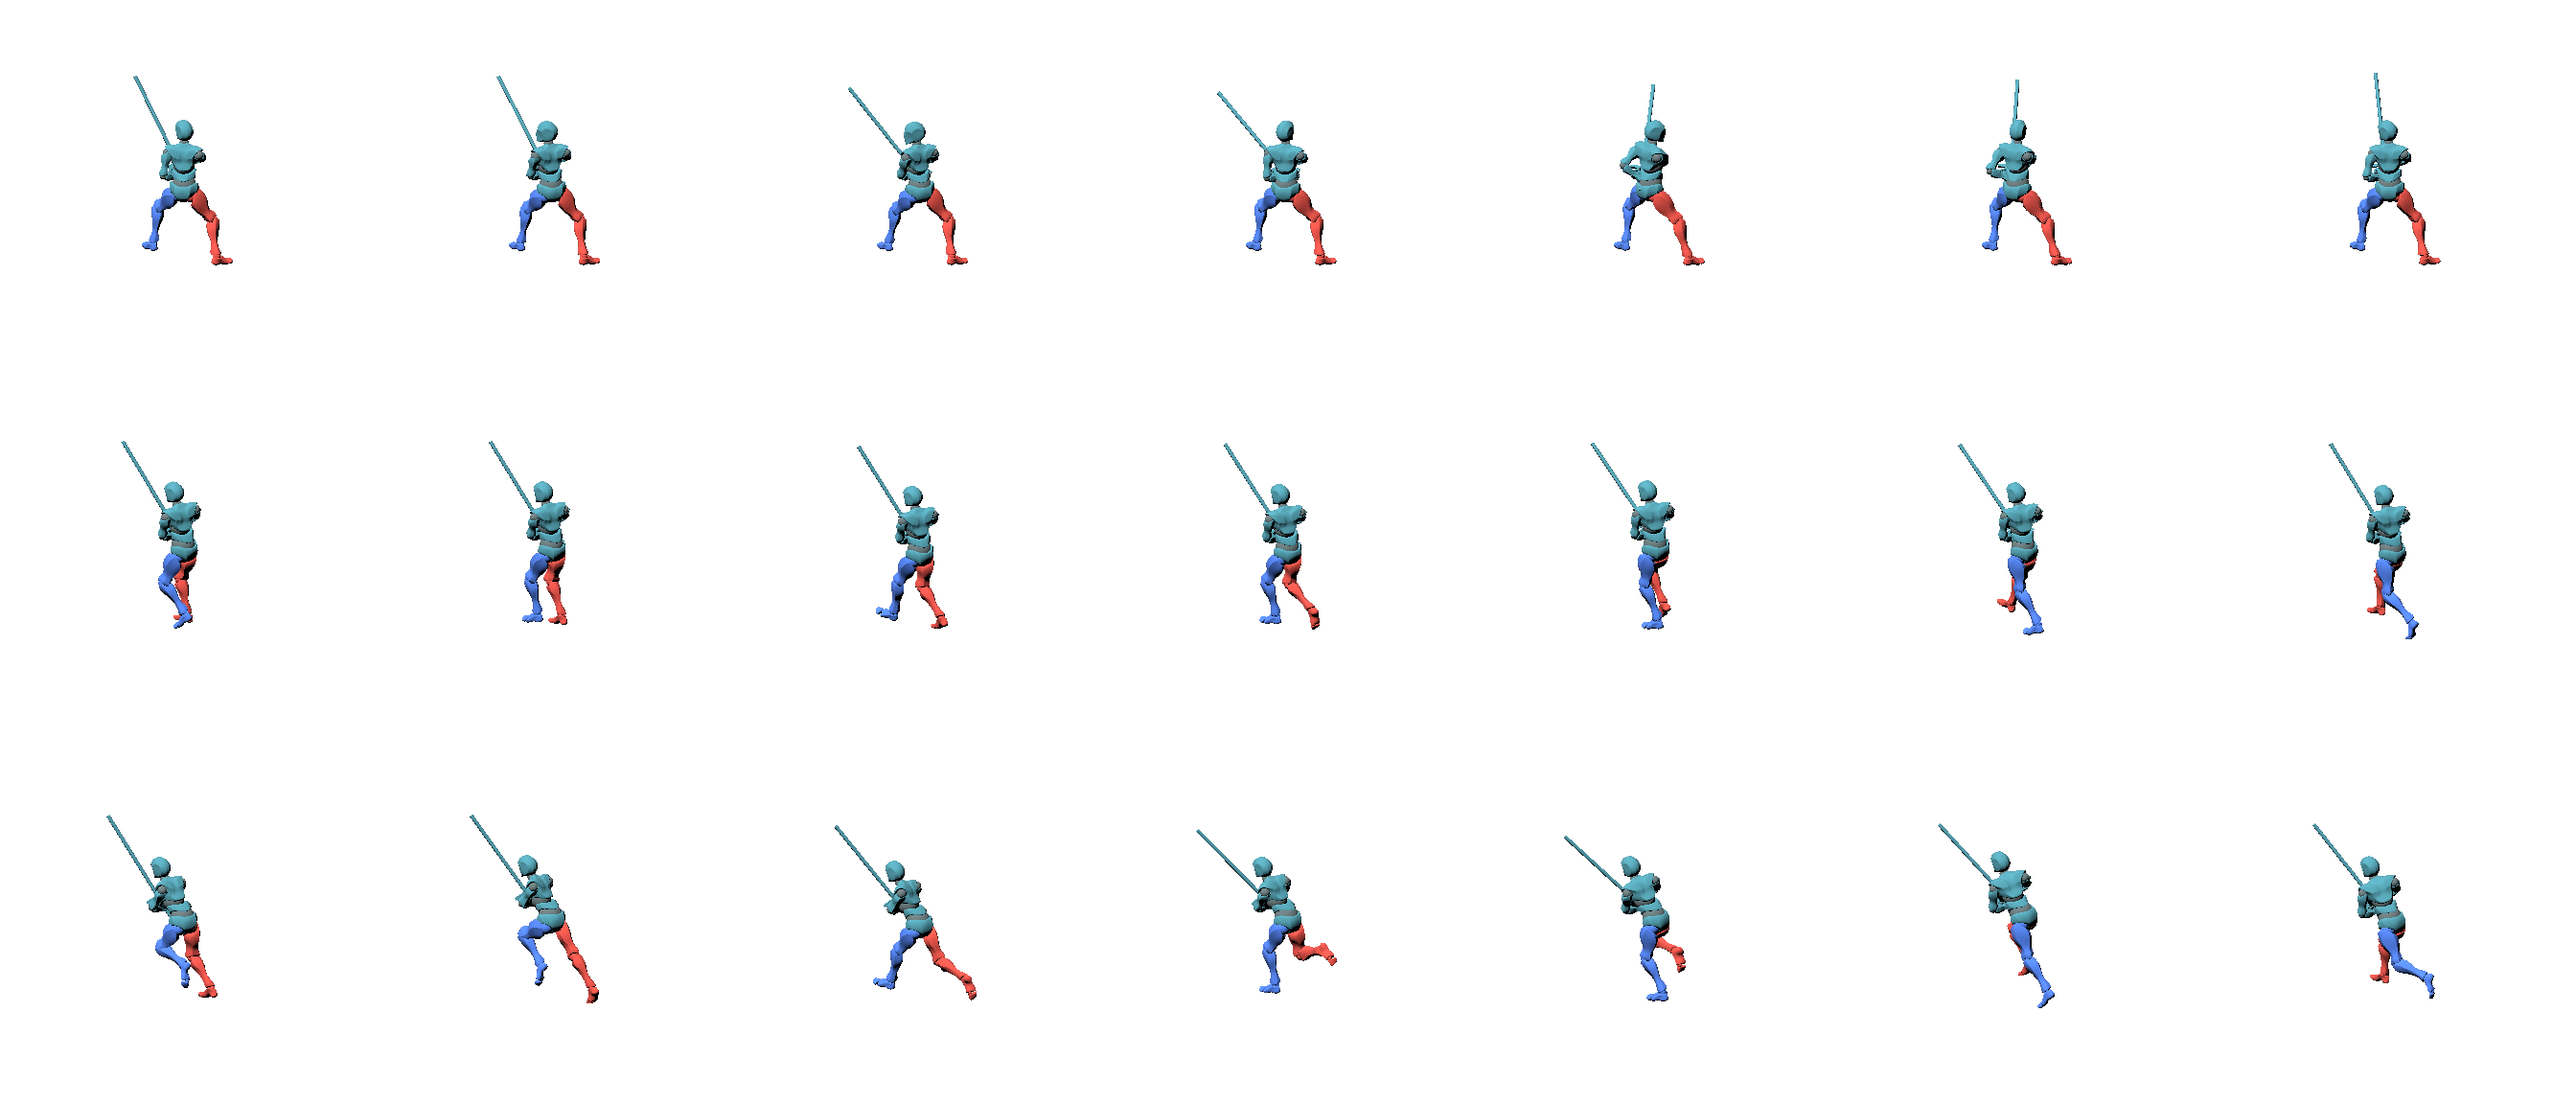
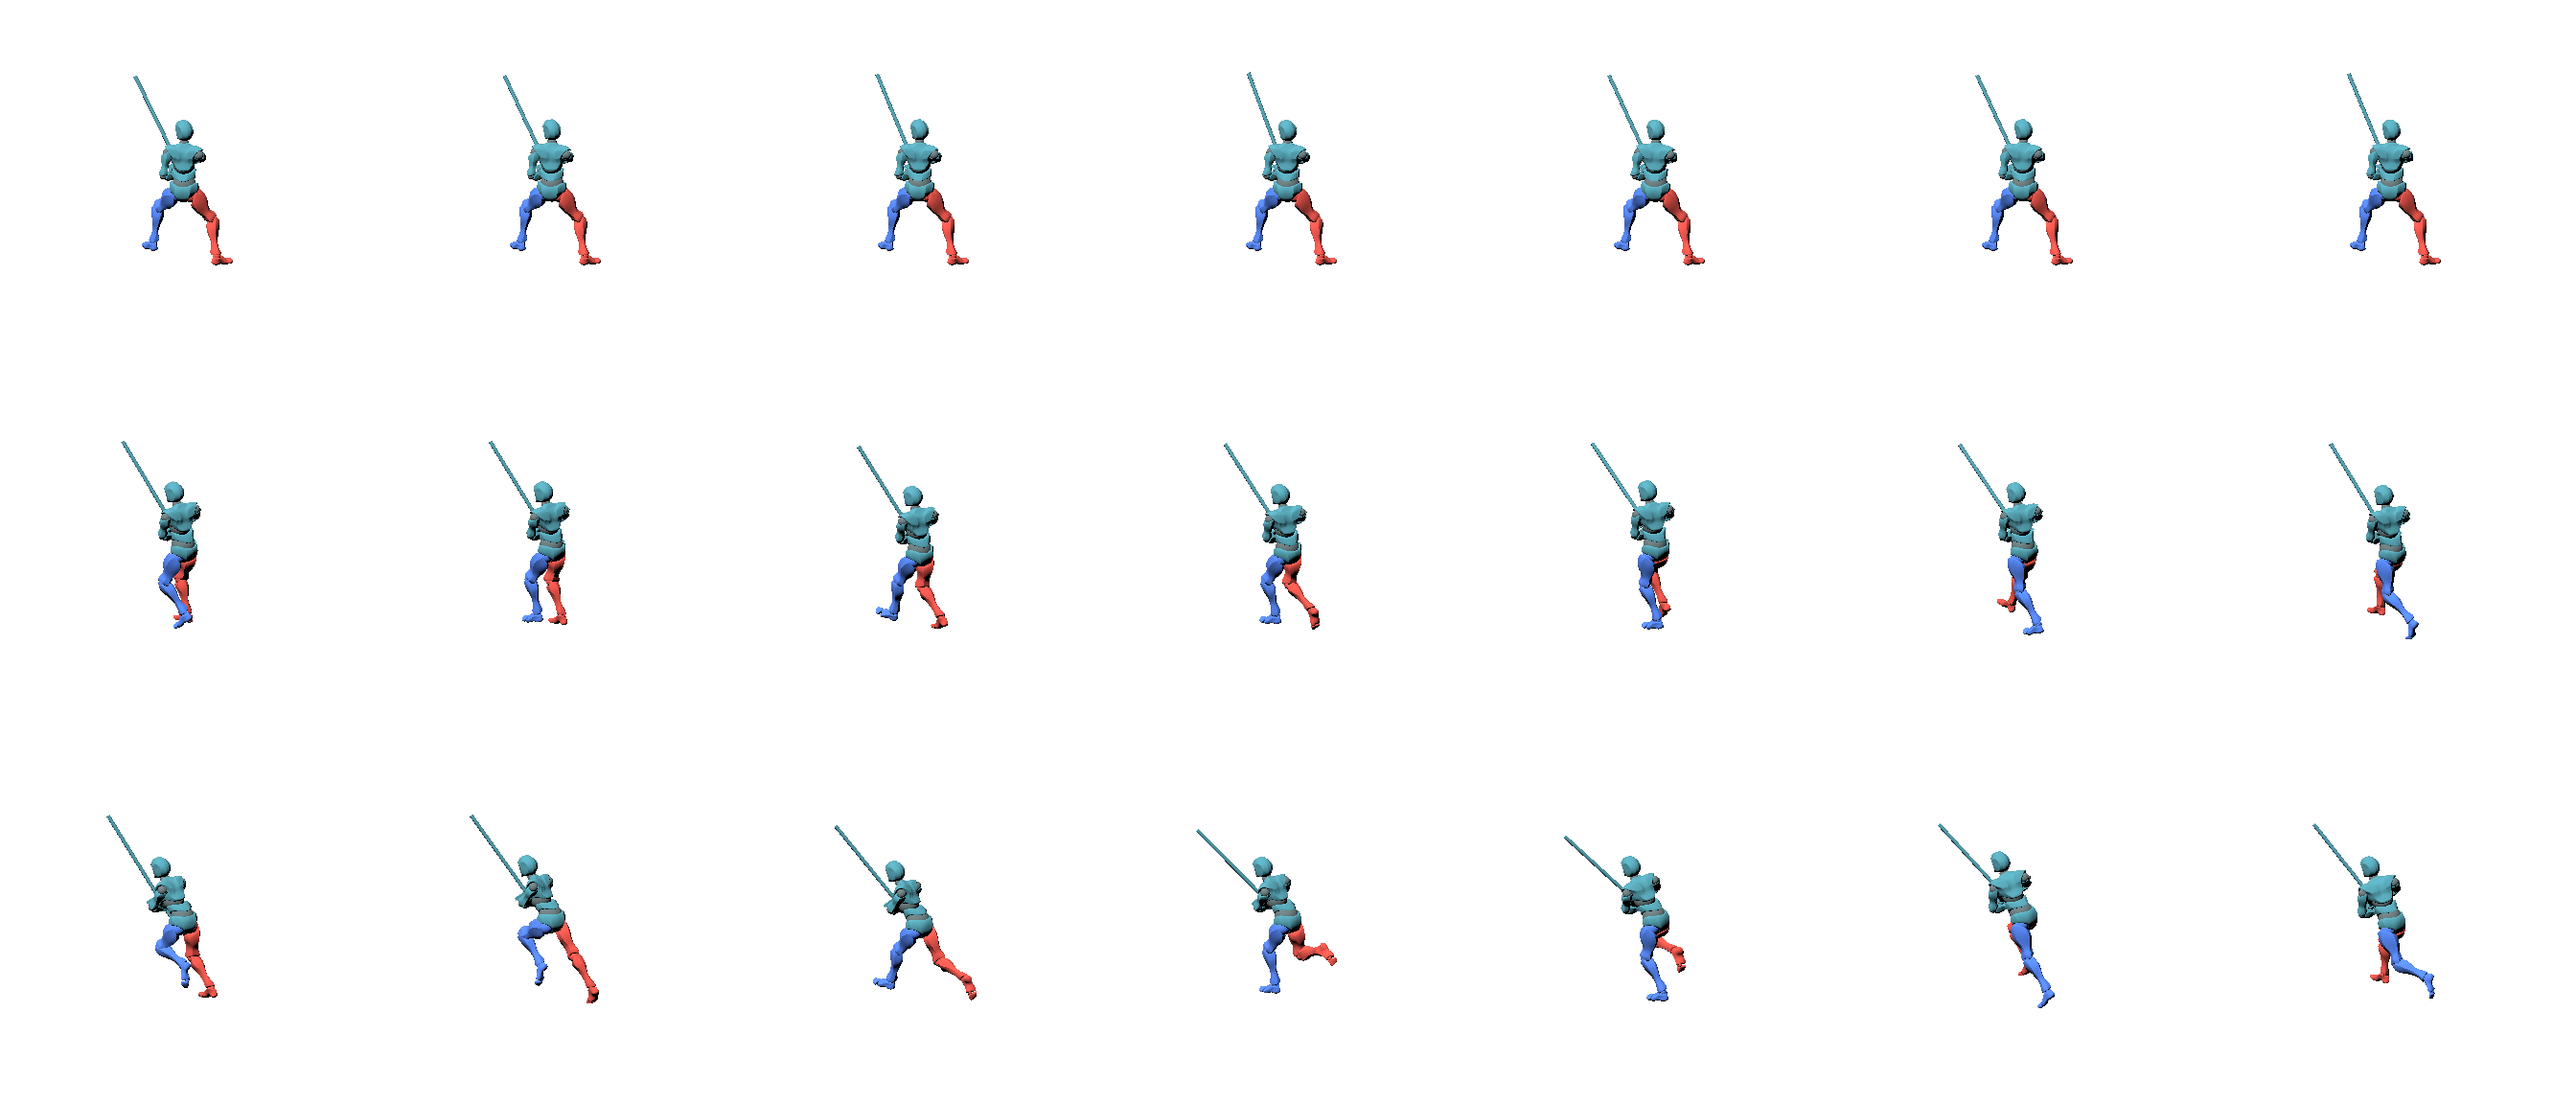
El juego de dos manos usa idle (4) como reposo
La guardia de idle gira torso y cabeza a media animación, y de frente el
modelo de imagen lo exageraba hasta enseñar la espalda.

diff --git a/tools/art/poses.ts b/tools/art/poses.ts
@@ -41,6 +41,11 @@ const ANIMS_EXTRA = [
   // Recibir daño: de los tres `impact` del pack, el (3) es el que se lee a 160 px
   // (retrocede girando el torso); el primero es un respingo casi quieto.
   { id: 'impact3', file: CLIP_DE_DAÑO },
+  // Los otros reposos del pack, para los juegos de armas a los que la guardia de
+  // lado de `idle` no les sirve.
+  { id: 'idle2', file: 'anims/sword_and_shield/sword and shield idle (2).fbx' },
+  { id: 'idle3', file: 'anims/sword_and_shield/sword and shield idle (3).fbx' },
+  { id: 'idle4', file: 'anims/sword_and_shield/sword and shield idle (4).fbx' },
   { id: 'casting', file: 'anims/sword_and_shield/sword and shield casting.fbx' },
   // El arco no tiene clip de Mixamo: el FBX solo da la postura y los brazos los
   // coloca `POSE_A_DISTANCIA` fotograma a fotograma.
@@ -566,6 +571,7 @@ export const JUEGOS_DE_ARMAS = {
   'espada-escudo': {
     describe: 'espada de una mano y escudo de cometa',
     ataque: 'quick',
+    reposo: 'idle',
     // Su arte ya está aprobado con el maniquí gris: cambiarlo dejaría su
     // referencia de pose sin poder reproducirse. La siguiente unidad que lo use
     // lo pasa a `true`.
@@ -589,6 +595,10 @@ export const JUEGOS_DE_ARMAS = {
   'dos-manos': {
     describe: 'espada larga empuñada con las dos manos',
     ataque: 'heavy',
+    // La guardia de `idle` gira torso y cabeza a media animación y, de frente, el
+    // modelo de imagen lo exageraba hasta enseñar la espalda. `idle (4)` es una
+    // guardia quieta con la espada vertical (elegida entre las cuatro del pack).
+    reposo: 'idle4',
     piernasDeColor: true,
     atrezo: {
       espada: { largo: 1.1, guarda: 0.3, puño: 0.3, agarre: 0.05 },
@@ -605,7 +615,7 @@ export const JUEGOS_DE_ARMAS = {
   },
 } as const satisfies Record<
   string,
-  { describe: string; ataque: string; piernasDeColor: boolean; atrezo: Atrezo }
+  { describe: string; ataque: string; reposo: string; piernasDeColor: boolean; atrezo: Atrezo }
 >;
 export type JuegoDeArmas = keyof typeof JUEGOS_DE_ARMAS;
 
@@ -644,8 +654,9 @@ export type Hoja8d = keyof typeof OCHO_DIRECCIONES.hojas;
 /** Las dos hojas de un juego de armas: las comunes con su ataque. */
 export function hojasDe(j: JuegoDeArmas) {
   const { a, b } = OCHO_DIRECCIONES.hojas;
+  const reposo: string = JUEGOS_DE_ARMAS[j].reposo;
   return {
-    a,
+    a: a.map((c) => (c.clip === 'idle' ? { ...c, anim: reposo } : c)),
     b: b.map((c) => (c.clip === 'attack' ? { ...c, anim: JUEGOS_DE_ARMAS[j].ataque } : c)),
   };
 }
